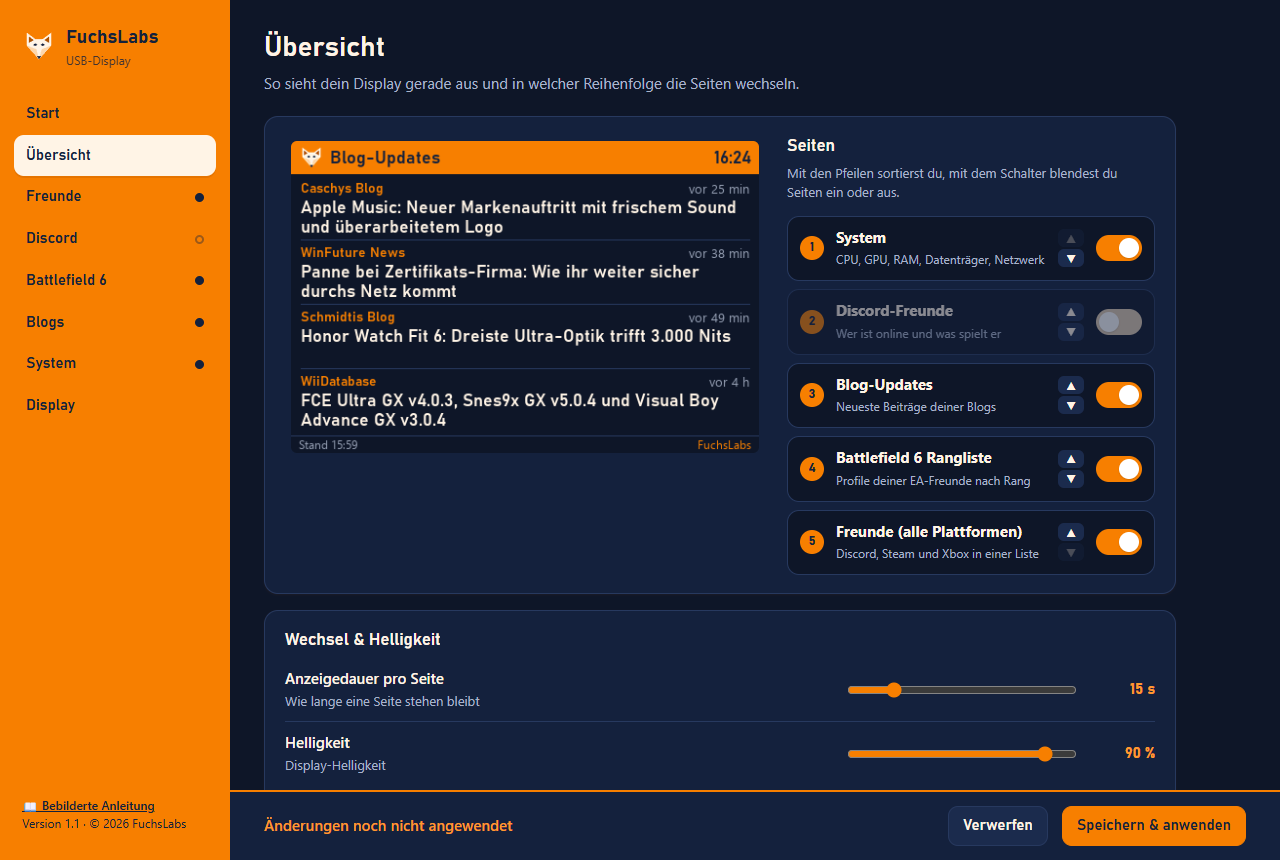
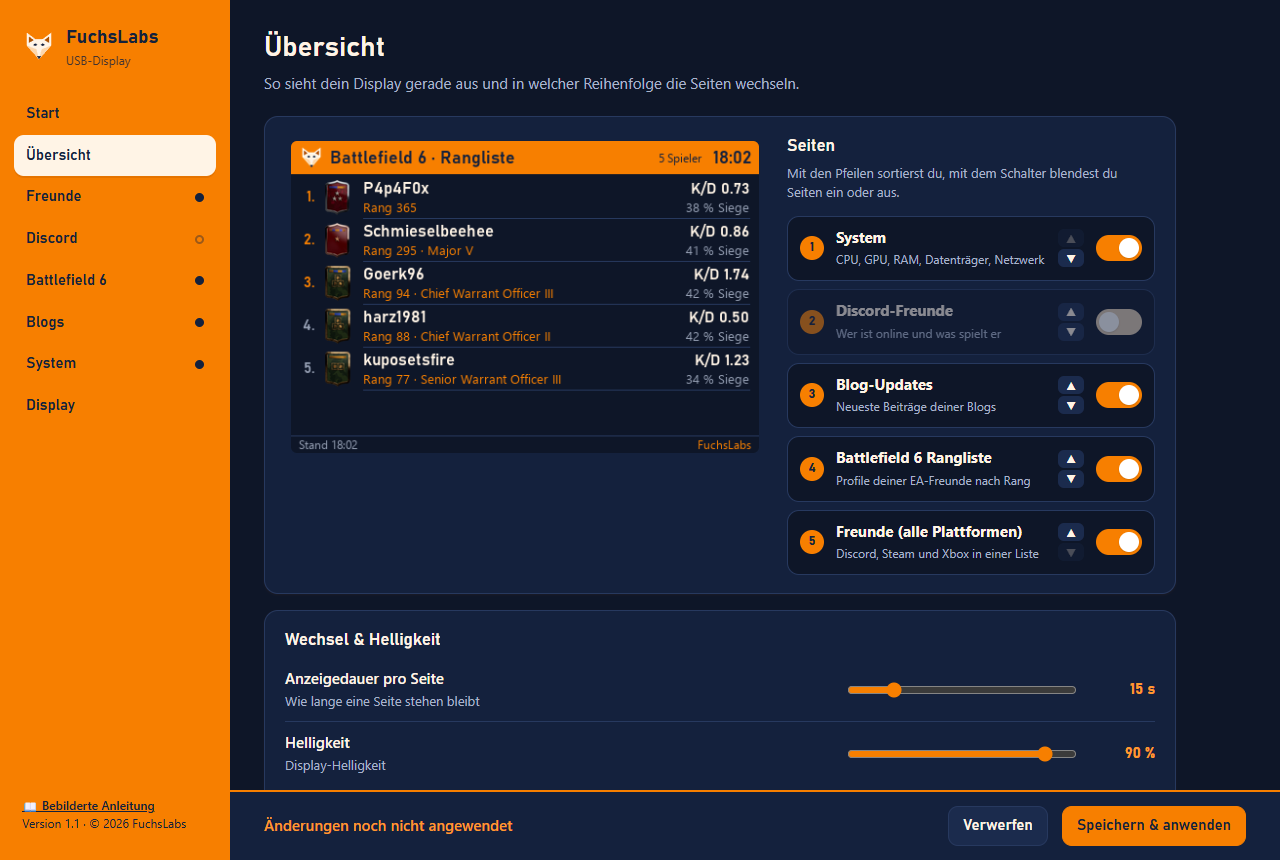
Anleitung: Screenshots ohne echte Namen neu aufgenommen

Changed region(s): [[0.2188, 0.1512, 0.5938, 0.514]]

diff --git a/anleitung/anleitung.template.html b/anleitung/anleitung.template.html
@@ -288,7 +288,7 @@ ${help([['Es passiert gar nichts.', 'Warte 10 Sekunden. Das Programm braucht bei
 <p class="kicker">Nachschauen</p><h1>Dein Browser öffnet sich von selbst</h1>
 <p class="lead">Es geht ein Fenster im Browser auf. Das ist die <b>Einstellungsseite</b>. Dort stellst du alles ein. Sie gehört nur dir und ist nicht im Internet.</p>
 <p>Schau ins Feld <b>„Zustand“</b>. Bei <b>Display</b> soll <b>„Verbunden“</b> stehen.</p>
-${shot('start', [[286, 193, 869, 62]], 'Bei „Display“ steht „Verbunden“: Alles gut!')}
+${shot('start', [[286, 196, 869, 63]], 'Bei „Display“ steht „Verbunden“: Alles gut!')}
 <p>Wenn das klappt, leuchtet jetzt auch dein kleines Display. 🎉</p>
 ${help([['Da steht „Die Hersteller-App des Displays läuft“.', `Klicke daneben auf ${g('Hersteller-App beenden')}. Wenn darunter noch <b>„Autostart der Hersteller-App“</b> steht, klicke dort auf ${g('Abschalten')}. Windows fragt dann einmal nach, ob du das erlaubst: <b>Ja</b> klicken.`],
   ['Da steht „Display nicht gefunden“.', 'Zieh das USB-Kabel ab und steck es wieder an. Probier einen anderen USB-Anschluss am PC. Warte dann ein paar Sekunden.'],
@@ -299,14 +299,14 @@ ${help([['Da steht „Die Hersteller-App des Displays läuft“.', `Klicke daneb
 <p class="kicker">Einschalten</p><h1>Das Display soll immer von selbst angehen</h1>
 <p class="lead">Damit du das Programm nicht jedes Mal selbst starten musst:</p>
 <ol class="do"><li>Schalte auf der Seite <b>Start</b> den Schalter <b>„Mit Windows starten“</b> ein. Er wird dann orange.</li></ol>
-${shot('start', [[1088, 276, 62, 40]], 'Diesen Schalter antippen, bis er orange ist.')}
+${shot('start', [[1088, 280, 62, 40]], 'Diesen Schalter antippen, bis er orange ist.')}
 <div class="box tip"><p>Auf dieser Seite gibt es auch den Knopf ${b('Anleitung öffnen ↗')}. Damit kommst du jederzeit zurück zu dieser Anleitung.</p></div>
 <div class="box tip"><p>Ab jetzt startet das Programm von selbst, wenn du dich bei Windows anmeldest. Ausschalten kannst du es hier genauso.</p></div>`},
 
 {t: 'Seiten aussuchen', html: () => `
 <p class="kicker">Aussuchen</p><h1>Welche Seiten zeigt das Display?</h1>
 <p class="lead">Klicke links auf <b>„Übersicht“</b>. Links siehst du, was das Display gerade zeigt. Rechts sind die Seiten.</p>
-${shot('uebersicht', [[1090, 222, 58, 352, 'tr'], [1055, 222, 34, 352], [843, 730, 238, 34]])}
+${shot('uebersicht', [[1090, 226, 58, 352, 'tr'], [1055, 226, 34, 352], [843, 735, 238, 34]])}
 <ol class="do">
 <li>Mit dem <b>orangen Schalter</b> machst du eine Seite an oder aus. ${['discord', 'bf6', 'blogs'].filter(k => !sel[k]).length ? 'Mach die Seiten aus, die du nicht willst.' : ''}${sel.friends ? ' Für Steam und Xbox schaltest du <b>„Freunde (alle Plattformen)“</b> ein.' : ''}</li>
 <li>Mit den <b>Pfeilen ▲ ▼</b> änderst du die Reihenfolge.</li>
@@ -319,7 +319,7 @@ ${shot('uebersicht', [[1090, 222, 58, 352, 'tr'], [1055, 222, 34, 352], [843, 73
 <p class="lead">Wenn das Bild auf deinem Display richtig herum ist, drück einfach auf ${b('Weiter →')}.</p>
 <p>Wenn es auf dem Kopf steht:</p>
 <ol class="do"><li>Klicke links auf <b>„Display“</b>.</li><li>Wähle bei <b>Ausrichtung</b> die andere Variante, also <b>„Querformat“</b> statt <b>„Querformat, gedreht“</b> oder andersherum.</li></ol>
-${shot('display', [[925, 170, 231, 43]], 'Hier stellst du um, wie herum das Bild ist.')}`},
+${shot('display', [[925, 175, 231, 43]], 'Hier stellst du um, wie herum das Bild ist.')}`},
 
 {need: 'discord', t: 'Discord 1: Bot anlegen', html: () => `
 <p class="kicker">Discord · Teil 1 von 3</p><h1>Mach dir einen kleinen Discord-Helfer</h1>
@@ -375,7 +375,7 @@ ${help([['Mein Server steht nicht in der Liste.', 'Du darfst nur Bots auf Server
 <li>Drück unten auf ${b('Speichern &amp; anwenden')}. Warte etwa 10 Sekunden.</li>
 <li>Jetzt erscheinen bei <b>Personen</b> die Leute von deinem Server. Setz einen Haken bei deinen Freunden.</li>
 </ol>
-${shot('discord', [[925, 218, 231, 42], [286, 800, 869, 318]], 'Beispiel-Namen. Unter dem Token-Feld steht die Hilfe noch einmal zum Aufklappen.', W, 1180)}
+${shot('discord', [[925, 277, 231, 42], [286, 860, 869, 318]], 'Beispiel-Namen. Unter dem Token-Feld steht die Hilfe noch einmal zum Aufklappen.', W, 1180)}
 <div class="box tip"><p>Wenn du <b>niemanden</b> anhakst, zeigt das Display alle Leute vom Server. Wenn du Freunde anhakst, nur diese.</p></div>
 ${help([['Bei „Personen“ steht „Der Bot ist gerade nicht verbunden“.', 'Prüfe, ob du den ganzen Token eingefügt hast, und ob du in Teil 1 die beiden Schalter (Intents) grün gemacht und gespeichert hast. Klicke dann noch einmal auf <b>Speichern &amp; anwenden</b>.'],
   ['Meine Freunde fehlen in der Liste.', 'Der Bot sieht nur Leute auf Servern, auf denen er selbst ist. Lade ihn auch auf den Server ein, auf dem deine Freunde sind (Teil 2).'],
@@ -392,7 +392,7 @@ ${help([['Bei „Personen“ steht „Der Bot ist gerade nicht verbunden“.', '
 <li><b>Xbox:</b> Klapp <b>„So bekommst du den Xbox-Schlüssel“</b> auf und folge den Schritten dort.</li>
 <li>Klicke jeweils auf ${g('Verbindung prüfen')}. Grün heißt: klappt. Dann ${b('Speichern &amp; anwenden')}.</li>
 </ol>
-${shot('freunde', [[675, 97, 231, 42], [675, 161, 231, 42], [35, 269, 870, 390], [675, 783, 231, 42]], 'Die Hilfe zum Aufklappen hat Knöpfe, die gleich die richtige Seite öffnen.', 940, 960, false)}
+${shot('freunde', [[675, 157, 231, 42], [675, 222, 231, 42], [35, 329, 870, 390], [675, 900, 231, 42]], 'Die Hilfe zum Aufklappen hat Knöpfe, die gleich die richtige Seite öffnen.', 940, 960, false)}
 <div class="box secret"><p>Die Schlüssel sind wie <b>Passwörter</b>. Zeig sie niemandem.</p></div>
 <div class="box tip"><p>Für PlayStation gibt es leider keinen erlaubten Weg. Darum fehlt sie hier.</p></div>
 ${help([['Da steht, die Freundesliste ist privat.', 'Bei Steam die Freundesliste auf <b>Öffentlich</b> stellen (Schritt 4) und dann noch einmal prüfen.'],
@@ -408,7 +408,7 @@ ${help([['Da steht, die Freundesliste ist privat.', 'Bei Steam die Freundesliste
 <li>Klicke auf ${g('Hinzufügen')}. Mach das genauso für jeden Freund.</li>
 <li>Klicke bei einem Namen auf ${g('Prüfen')}. Steht dort grün ein <b>Rang</b>, ist der Name richtig.</li>
 </ol>
-${shot('bf6', [[286, 746, 869, 43], [990, 399, 62, 33], [286, 801, 869, 203]], 'Beispiel-Namen. Grün heißt: gefunden. Bei 3 steht, wo du die EA-ID findest.', W, 1180)}
+${shot('bf6', [[286, 751, 869, 43], [990, 405, 62, 33], [286, 806, 869, 203]], 'Beispiel-Namen. Grün heißt: gefunden. Bei 3 steht, wo du die EA-ID findest.', W, 1180)}
 ${help([['Da steht „Spieler nicht gefunden“.', 'Schau genau auf die Schreibweise. Groß- und Kleinbuchstaben und Null und O werden oft verwechselt. Frag deinen Freund nach seinem genauen EA-Namen.'],
   ['Mein Freund spielt auf der Konsole.', 'Wähle beim Eintragen rechts neben dem Feld <b>PlayStation</b> oder <b>Xbox</b> aus.']])}`},
 
@@ -420,7 +420,7 @@ ${help([['Da steht „Spieler nicht gefunden“.', 'Schau genau auf die Schreibw
 <li>Kopier die Adresse der Webseite aus deinem Browser und füge sie unten ins Feld ein.</li>
 <li>Klicke auf ${g('Hinzufügen')} und dann auf ${g('Prüfen')}. Grün heißt: klappt.</li>
 </ol>
-${shot('blogs', [[286, 760, 869, 42], [286, 471, 869, 63]], 'Beispiel-Webseiten. Grün heißt: Es wurden Artikel gefunden.', W, 1180)}
+${shot('blogs', [[286, 765, 869, 42], [286, 476, 869, 63]], 'Beispiel-Webseiten. Grün heißt: Es wurden Artikel gefunden.', W, 1180)}
 ${help([['Da steht „Kein Feed gefunden“.', 'Manche Seiten machen keine Artikel-Liste für Programme. Probier eine andere Seite oder häng an die Adresse <span class="key">/feed/</span> an.']])}`},
 
 {need: 'system', t: 'Mein PC', html: () => `
